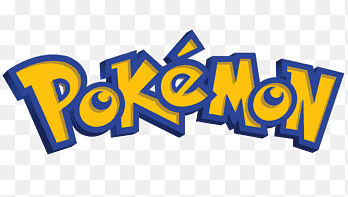
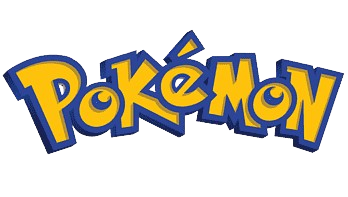
ajout titre + rgb des bouttons

diff --git a/classes/Menu/Menu.py b/classes/Menu/Menu.py
@@ -1,6 +1,7 @@
 import pygame
 import sys
 import os
+import math
 
 class MenuPokemon:
     def __init__(self):
@@ -13,13 +14,17 @@ class MenuPokemon:
         # chemin d'accès au fond du menu
         dossier_assets = "assets/assets_menu"
         assets_file = "backgmenu.png"
+        assets_titre = "pokemontitre.png"
         chemin_image = os.path.join(dossier_assets, assets_file)
+        chemin_titre = os.path.join(dossier_assets, assets_titre)
         # gestion d'erreur 
         if not os.path.exists(chemin_image):
             print(f"Erreur : Le fichier image '{assets_file}' n'existe pas dans le dossier '{dossier_assets}'.")
             sys.exit()
 
         self.fond = pygame.image.load(chemin_image).convert()
+        self.titre = pygame.image.load(chemin_titre).convert_alpha()
+        self.bordure_couleur_phase = 0
 
     def afficher_texte(self, texte, x, y, couleur):
         texte_surface = self.police.render(texte, True, couleur)
@@ -31,19 +36,39 @@ class MenuPokemon:
         bouton_hauteur = 30
         espacement = 20
 
-        bouton1_rect = pygame.Rect((self.largeur - bouton_largeur) // 2 - bouton_largeur - espacement, 400, bouton_largeur, bouton_hauteur)
-        bouton2_rect = pygame.Rect((self.largeur - bouton_largeur) // 2, 400, bouton_largeur, bouton_hauteur)
-        bouton3_rect = pygame.Rect((self.largeur - bouton_largeur) // 2 + bouton_largeur + espacement, 400, bouton_largeur, bouton_hauteur)
+        for i in range(3):
+            bouton_rect = pygame.Rect((self.largeur - bouton_largeur) // 2 + (i - 1) * (bouton_largeur + espacement), 425, bouton_largeur, bouton_hauteur)
+            pygame.draw.rect(self.fenetre, (255, 0, 0), bouton_rect)
 
-        pygame.draw.rect(self.fenetre, (255, 0, 0), bouton1_rect)
-        pygame.draw.rect(self.fenetre, (255, 0, 0), bouton2_rect)
-        pygame.draw.rect(self.fenetre, (255, 0, 0), bouton3_rect)
+            bordure_x = bouton_rect.x - 5
+            bordure_y = bouton_rect.y - 5
+            bordure_largeur = bouton_largeur + 10
+            bordure_hauteur = bouton_hauteur + 10
 
-        self.afficher_texte("Lancer une partie", bouton1_rect.centerx, bouton1_rect.centery, (255, 255, 255))
-        self.afficher_texte("Ajouter un Pokémon", bouton2_rect.centerx, bouton2_rect.centery, (255, 255, 255))
-        self.afficher_texte("Accéder au Pokédex", bouton3_rect.centerx, bouton3_rect.centery, (255, 255, 255))
+            r = int(127 * math.sin(self.bordure_couleur_phase) + 128)
+            g = int(127 * math.sin(self.bordure_couleur_phase + 2.0) + 128)
+            b = int(127 * math.sin(self.bordure_couleur_phase + 4.0) + 128)
+
+            pygame.draw.rect(self.fenetre, (r, g, b), (bordure_x, bordure_y, bordure_largeur, bordure_hauteur), 5)
+
+            texte = ""
+            if i == 0:
+                texte = "Lancer une partie"
+            elif i == 1:
+                texte = "Ajouter un Pokémon"
+            elif i == 2:
+                texte = "Accéder au Pokédex"
+
+            self.afficher_texte(texte, bouton_rect.centerx, bouton_rect.centery, (255, 255, 255))
+
+        self.bordure_couleur_phase += 0.05
+
+    def afficher_titre(self):
+        titre_rect = self.titre.get_rect(center=(self.largeur // 2, 100))
+        self.fenetre.blit(self.titre, titre_rect)
 
     def executer(self):
+        clock = pygame.time.Clock()
         while True:
             for evenement in pygame.event.get():
                 if evenement.type == pygame.QUIT:
@@ -56,20 +81,9 @@ class MenuPokemon:
             self.fenetre.fill((255, 255, 255))
             self.fenetre.blit(self.fond, (0, 0))
             self.afficher_boutons()
+            self.afficher_titre()
             pygame.display.flip()
-            pygame.time.Clock().tick(60)
-
-    def verifier_clic(self, x, y):
-        bouton1_rect = pygame.Rect((self.largeur - 150) // 2 - 150 - 20, 400, 150, 30)
-        bouton2_rect = pygame.Rect((self.largeur - 150) // 2 - 20, 400, 150, 30)
-        bouton3_rect = pygame.Rect((self.largeur - 150) // 2 + 150 + 20 - 150, 400, 150, 30)
-
-        if bouton1_rect.collidepoint(x, y):
-            print("Lancer une partie")
-        elif bouton2_rect.collidepoint(x, y):
-            print("Ajouter un Pokémon")
-        elif bouton3_rect.collidepoint(x, y):
-            print("Accéder au Pokédex")
+            clock.tick(60)
 
 if __name__ == "__main__":
     menu = MenuPokemon()
